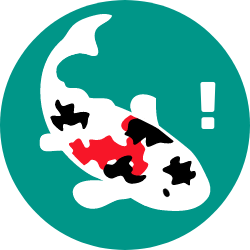
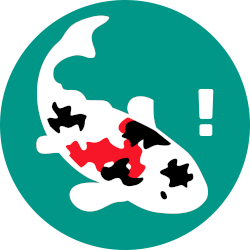
Rework error pages

diff --git a/assets/styles/main.css b/assets/styles/main.css
@@ -378,11 +378,13 @@ html.loading:before {
 .box {max-width: 360px; margin: 100px auto 0 auto;}
 .box h1 {color: #f0f2f5; background-color: #009688; font-size: 28px; word-break: normal; padding: 40px 20px; text-align: center; position: relative; margin: 0;}
 .box .logo {position: absolute; left: 0; right: 0; bottom: -37px; height: 75px; width: 75px; background-image: url('../img/logo.svg'); background-repeat: no-repeat; background-size: 39px; background-position: center center; border-radius: 50%; margin: 0 auto; background-color: #009688; z-index: 5;}
+.error .box .logo {background-image: url('../img/error.png'); background-size: 57px;}
 .box .content {background-color: #fff;}
-.box form {padding: 30px 50px 50px 50px}
 .box h2.header {text-align: center; padding: 0 0 30px 0;}
 .box .locales-dropdown {padding: 10px 10px 0 0; float: right;}
 .box .submit {padding: 15px 0;}
+.box .body {padding: 30px 50px 50px;}
+.error .box .body {padding-top: 50px;}
 
 .header-profile {flex: 0 0 auto; height: 50px; cursor: pointer; margin-right: 10px; margin-top: auto; margin-bottom: auto;}
 .header-profile .user-avatar {height: 50px; width: 50px; border-radius: 50%; box-shadow: 0 1px 2px 0 rgba(60,64,67,.302),0 1px 3px 1px rgba(60,64,67,.149)}
@@ -614,3 +616,4 @@ i.btn input {color: #fff; cursor: pointer;}
 .select-tip {display: block;}
 .input-checkbox {margin: 3rem 0;}
 .input-checkbox > label {-webkit-transform: none; transform: none;}
+.error {background-color: #99a3a8;}
